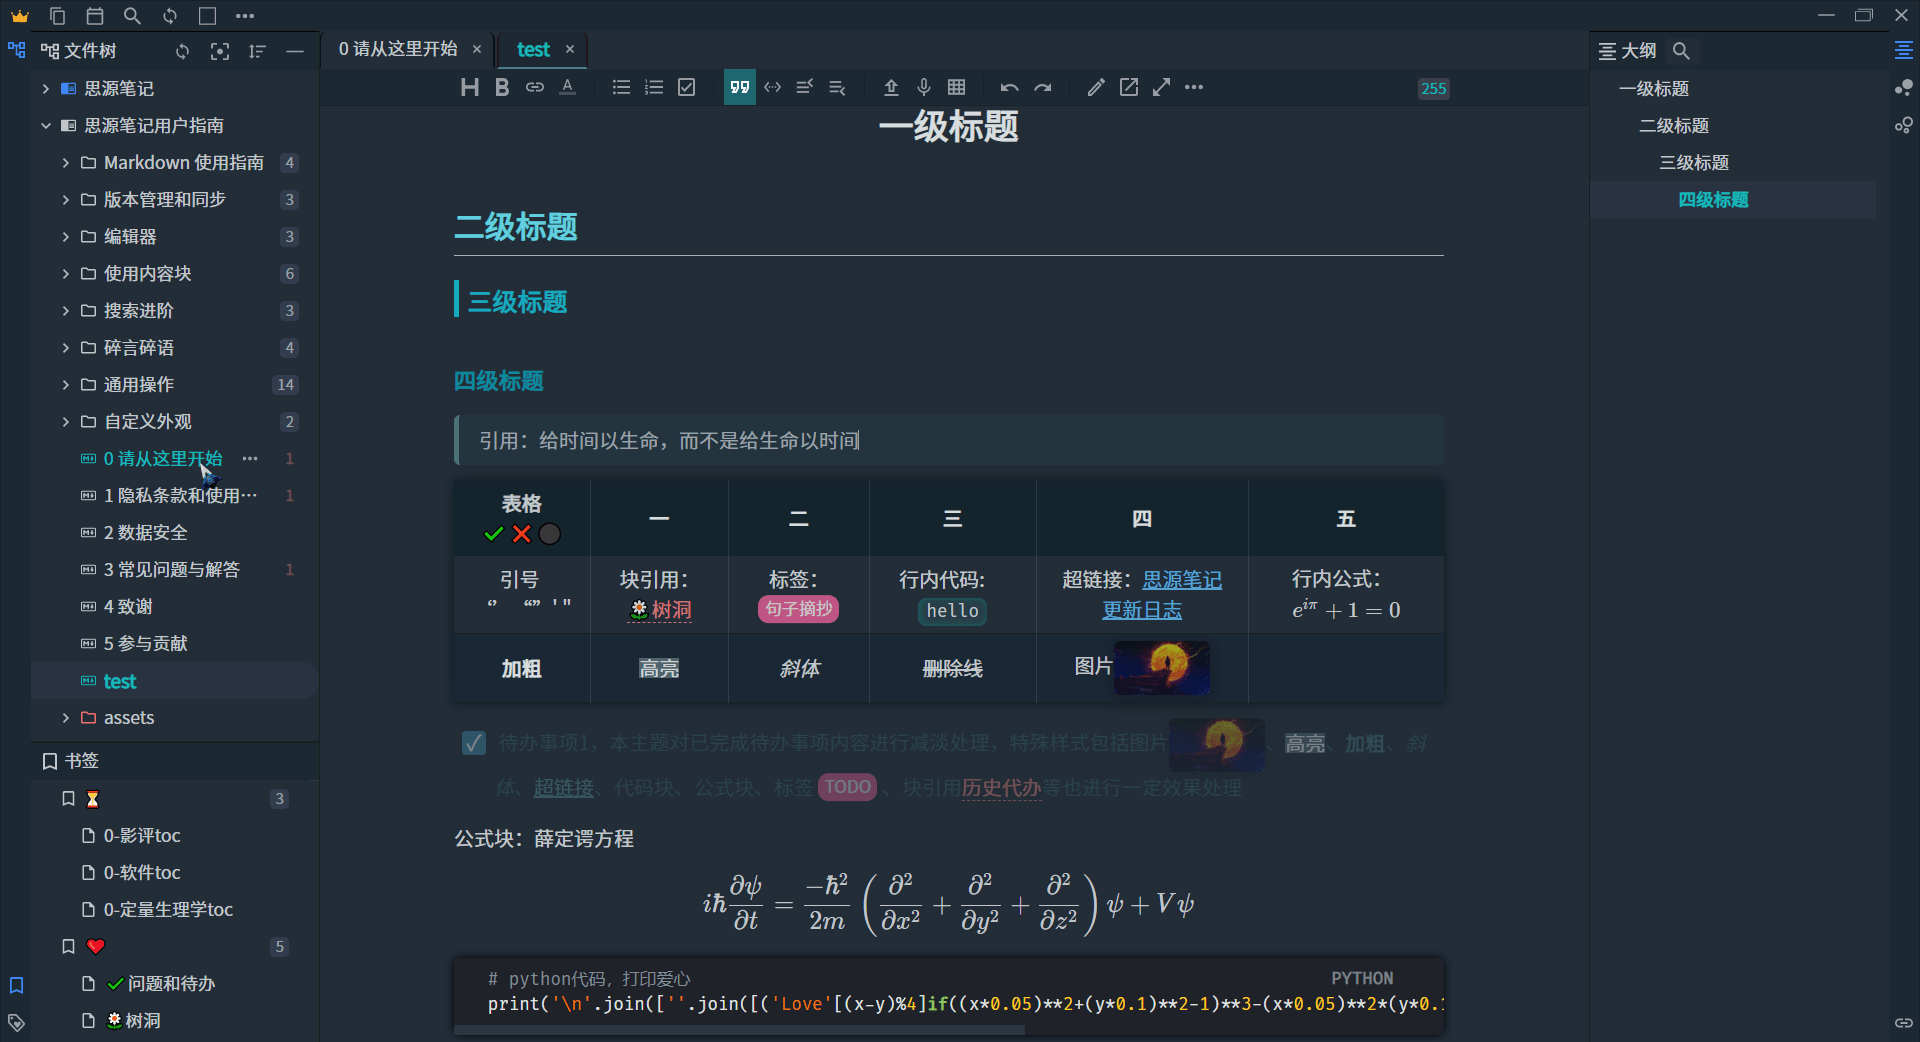
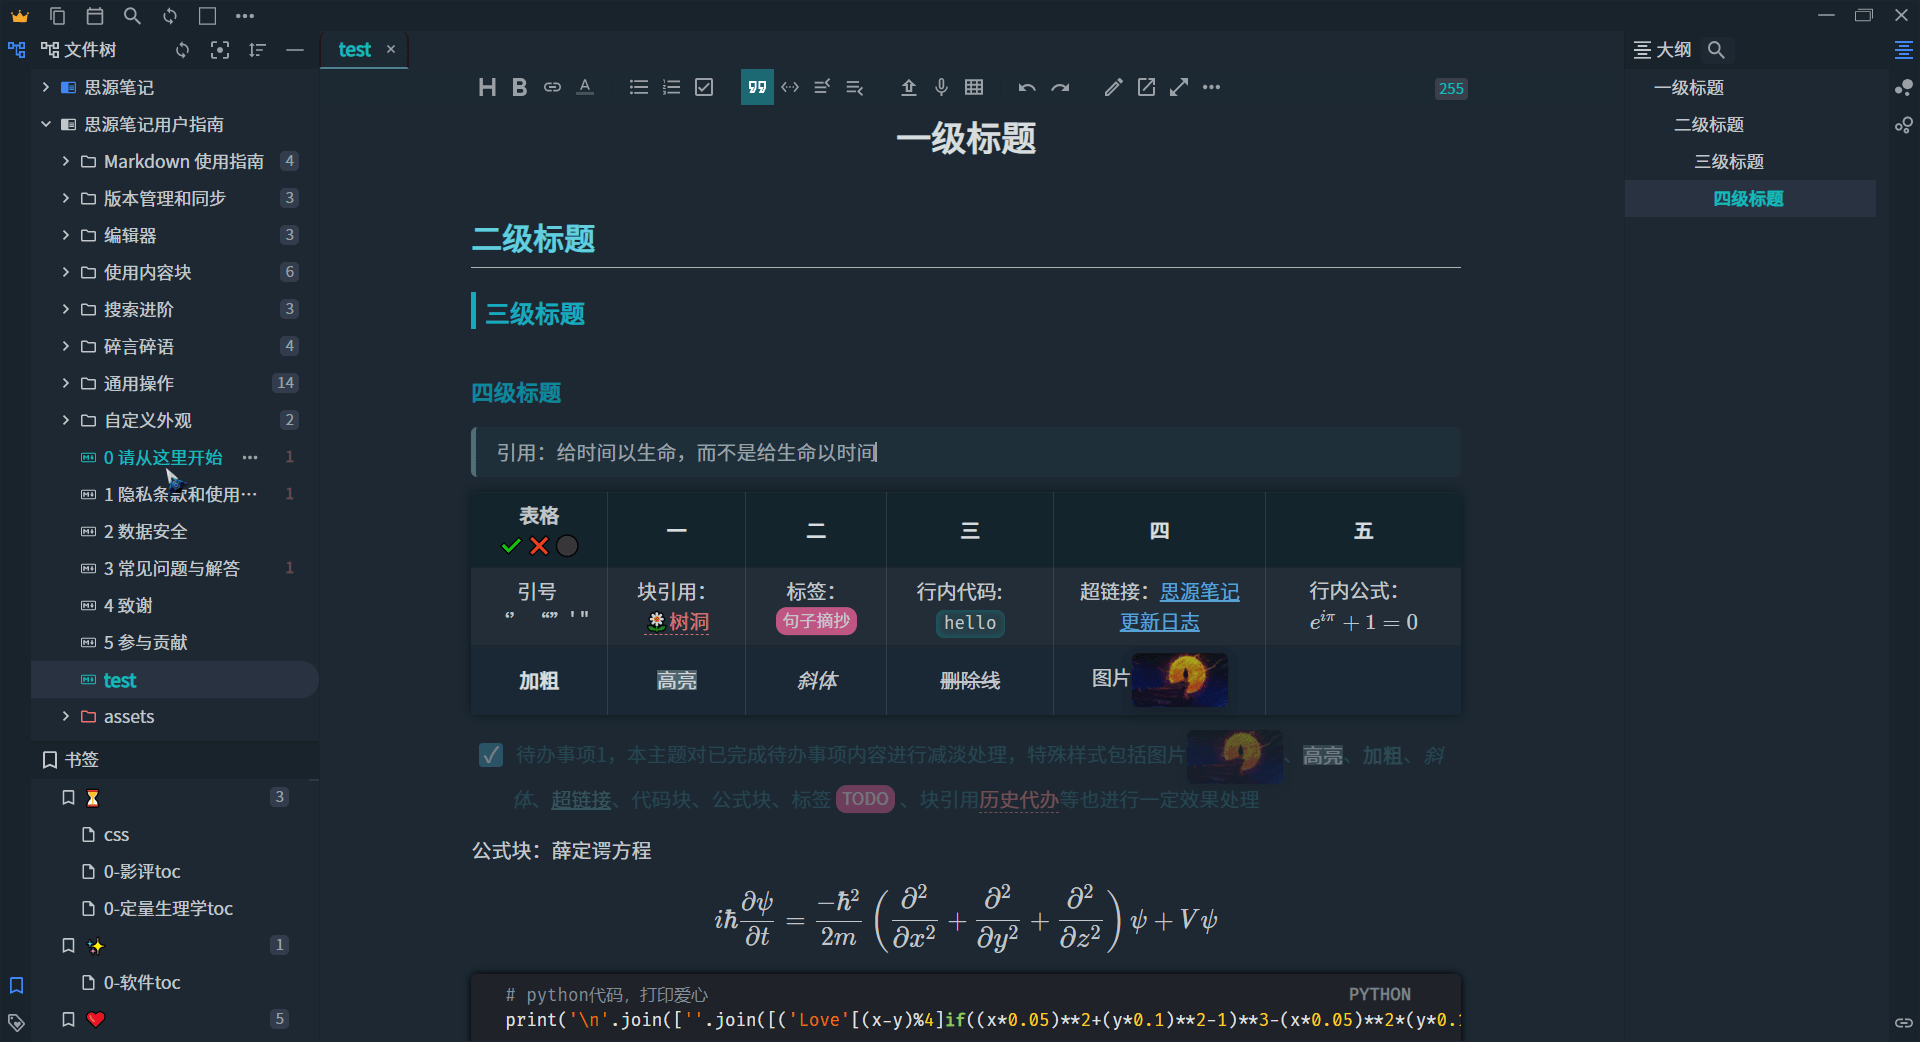
v0.3.3
## v0.3.3/2021-3-21

- 调整完成的代表列表字体减淡颜色
- light 主题修正设置窗口的关闭按钮高亮样式，模仿 watermelon 添加关闭按钮旋转动画
- 再次更改黑色主题色……
- 这个月除非重大 bug，否则都不会再发布新版本了

diff --git a/theme.css b/theme.css
@@ -16,8 +16,8 @@
     --b3-theme-primary-lighter: rgba(66, 133, 244, 0.38);
     --b3-theme-primary-lightest: rgba(66, 133, 244, 0.12);
     --b3-theme-secondary: #f3a92f;
-    --b3-theme-background: #222d38;
-    --b3-theme-surface: #222d38;
+    --b3-theme-background: #1d2833;
+    --b3-theme-surface: #1d2833;
     --b3-theme-error: #d23f31;
     --b3-text-emphasize-color: rgb(58, 63, 75);
 
@@ -58,7 +58,7 @@
     --b3-menu-hover: #293241;
     /* 页签 */
     --b3-tab-background:#222d38;
-    --b3-tab-background-hover: #292f3a;
+    --b3-tab-background-hover: #1e697360;
 
     /* 提示 */
     --b3-tooltips-color: rgba(70, 72, 76, 0.86);
@@ -524,7 +524,8 @@ span[data-type='code'] > code {
 .vditor-task--done {
     /* 完成的待办事项删除线 */
     /* text-decoration: line-through; */
-    color: #3d71799c !important;
+    /* 字体颜色 */
+    color: #398b979c !important;
 }
 .vditor-task--done strong {
     /* 加粗样式调整 */
@@ -814,7 +815,7 @@ div[data-type='navigation'] .b3-list-item--focus,
 .layout-tab-bar {
     list-style: none;
     align-items: center;
-    background-color: #222d38;
+    background-color: #1d2833;
     flex-wrap: wrap;
 }
 .vditor-toolbar {
@@ -918,10 +919,12 @@ div[data-type='navigation'] .b3-list-item--focus,
     margin-left: 22px;
     height: 13px;
     width: 13px;
+    transition: all 0.3s linear;
 }
 .b3-dialog__container svg:hover {
-    color: var(--b3-menu-highlight-focus-color);
+    color: var(--b3-menu-highlight-color);
     background: #282c34;
+    transform: rotate(180deg);
 }
 /* 仿照Lavender设置/搜索界面启动动效 */
 /* .b3-dialog {
@@ -1226,31 +1229,31 @@ table:after {
 
 /*分窗口的边框（线）  */
 .layout__resize::after {
-    background-color: #171f1f71;
+    background-color: #041519;
 }
 /* 主要背景色 */
 .dock {
-    background-color: #1c2832;
+    background-color: #19232c;
 }
 .toolbar {
-    background-color: #1c2832;
+    background-color: #19232c;
 }
 .layout-tab-container {
-    background-color: #222d38;
+    background-color: #1d2833;
 }
 .block__icons {
     /* box-shadow: rgb(0 0 0 / 30%) 0px 1px 2px; */
     /* background-color: #a3a3a36c; */
-    background-color: #1c2832;
+    background-color: #19232c;
     /* border-top: 1px solid #030303; */
     /* border-bottom: 1px solid #030303; */
 }
 /* 搜索项页面名称背景 */
 .spread-search__path {
     padding: 8px 16px;
-    background-color: #192430;
-    border-top: 1px solid #030303;
-    border-bottom: 1px solid #0303034f;
+    background-color: #1f2d3b;
+    border-top: 1px solid #03030363;
+    /* border-bottom: 1px solid #0303034f; */
 }
 /* --------------------------------------------------------------------- */
 /* 多窗口区别样式 */
@@ -1266,7 +1269,7 @@ table:after {
 }
 .layout__wnd--active .vditor-ir{
     /* 当前编辑窗口保持主背景色 */
-    background-color: #222d38;
+    background-color: #1d2833;
 }
 /* 滚动条隐藏 */
 .vditor-content::after {
@@ -1304,7 +1307,7 @@ div[data-type='wnd'] .layout-tab-container .file-tree .fn__flex-1::before {
     right: 0px;
     top: 32px;
     bottom: 0;
-    background-color: #222d38;
+    background-color: #1d2833;
     z-index: 1;
     transition: background-color 0.3s linear;
 }

diff --git a/Readme.md b/Readme.md
@@ -24,21 +24,22 @@
 
 ---
 
+## v0.3.3/2021-3-21
+
+- 调整完成的代表列表字体减淡颜色
+- light 主题修正设置窗口的关闭按钮高亮样式，模仿 watermelon 添加关闭按钮旋转动画
+- 再次更改黑色主题色……
+- 这个月除非重大 bug，否则都不会再发布新版本了
+
 ## v0.3.2/2021-3-20
-
-- 修复行内公式中分式大小较小的问题，稍微调大了公式块中矩阵、方程组等字体，但还是较小，暂时无法彻底解决，将就的用吧
-
-## v0.3.1/2021-3-20
-
-- 修复自定义颜色造成的滚动条失灵情况
-- 更改菜单颜色
-
-
-## v0.3.0/2021-3-20
 
 - 主题添加思源v1.1.4添加的自定义颜色样式
 - 修复思源1.1.3之后公式块与正文间距变大的问题
 - 再次更改黑色主题色……
+- 修复行内公式中分式大小较小的问题，稍微调大了公式块中矩阵、方程组等字体，但还是较小，暂时无法彻底解决，将就的用吧
+- 修复自定义颜色造成的滚动条失灵情况
+- 更改菜单颜色
+
 
 ## v0.2.9/2021-3-19
 
